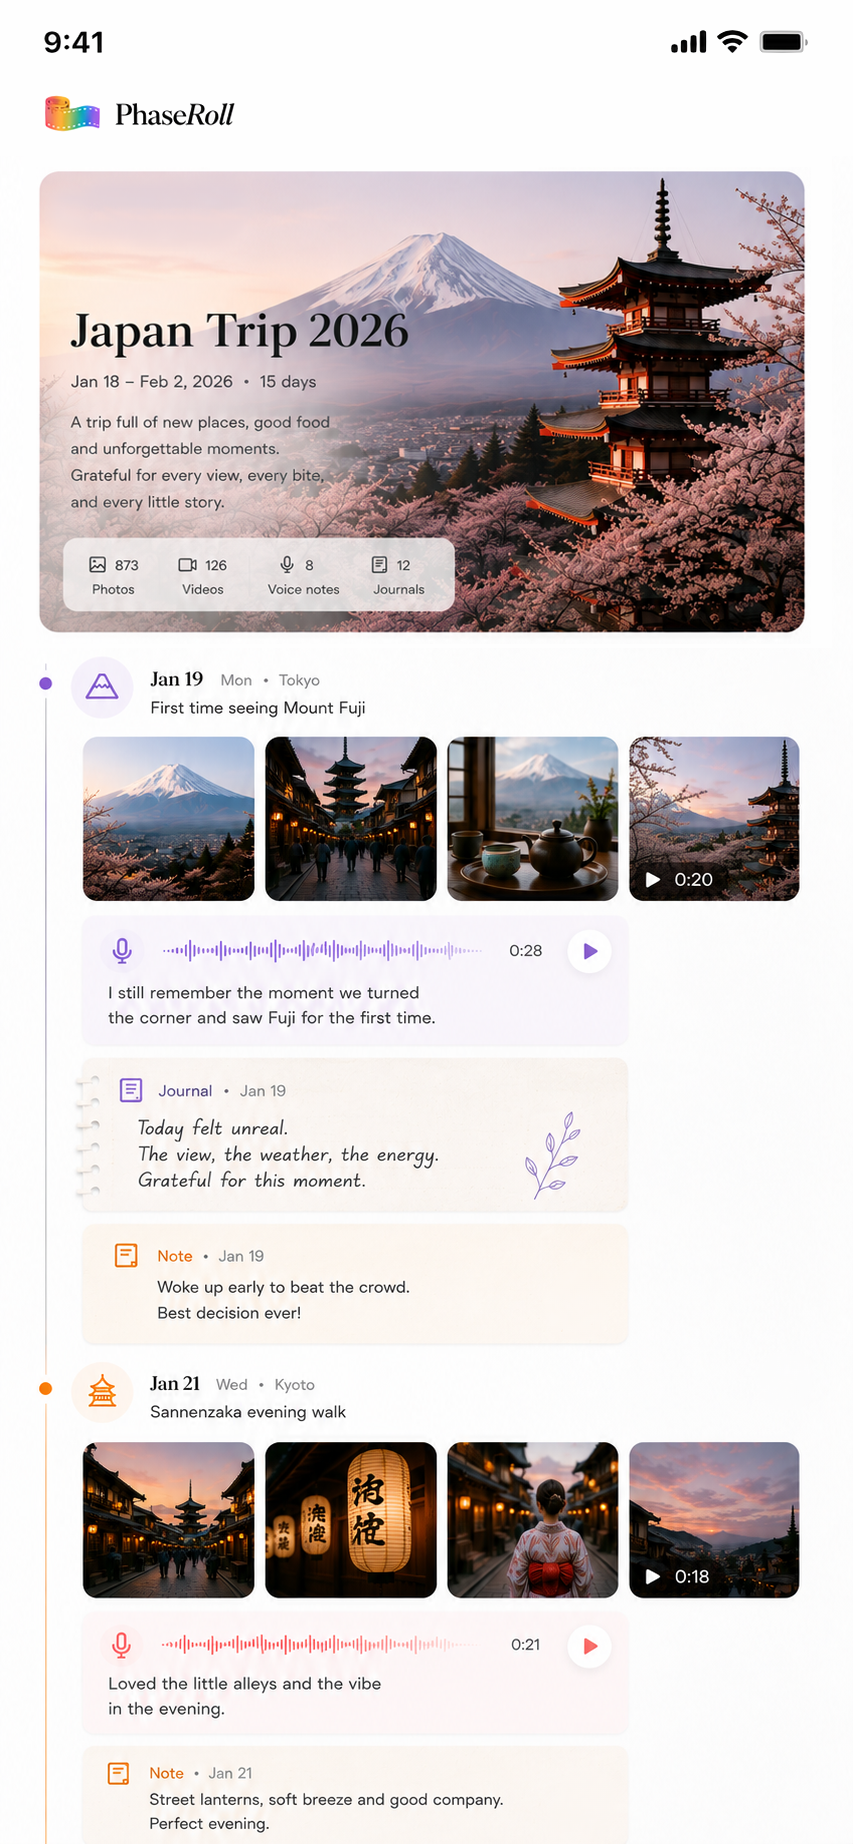
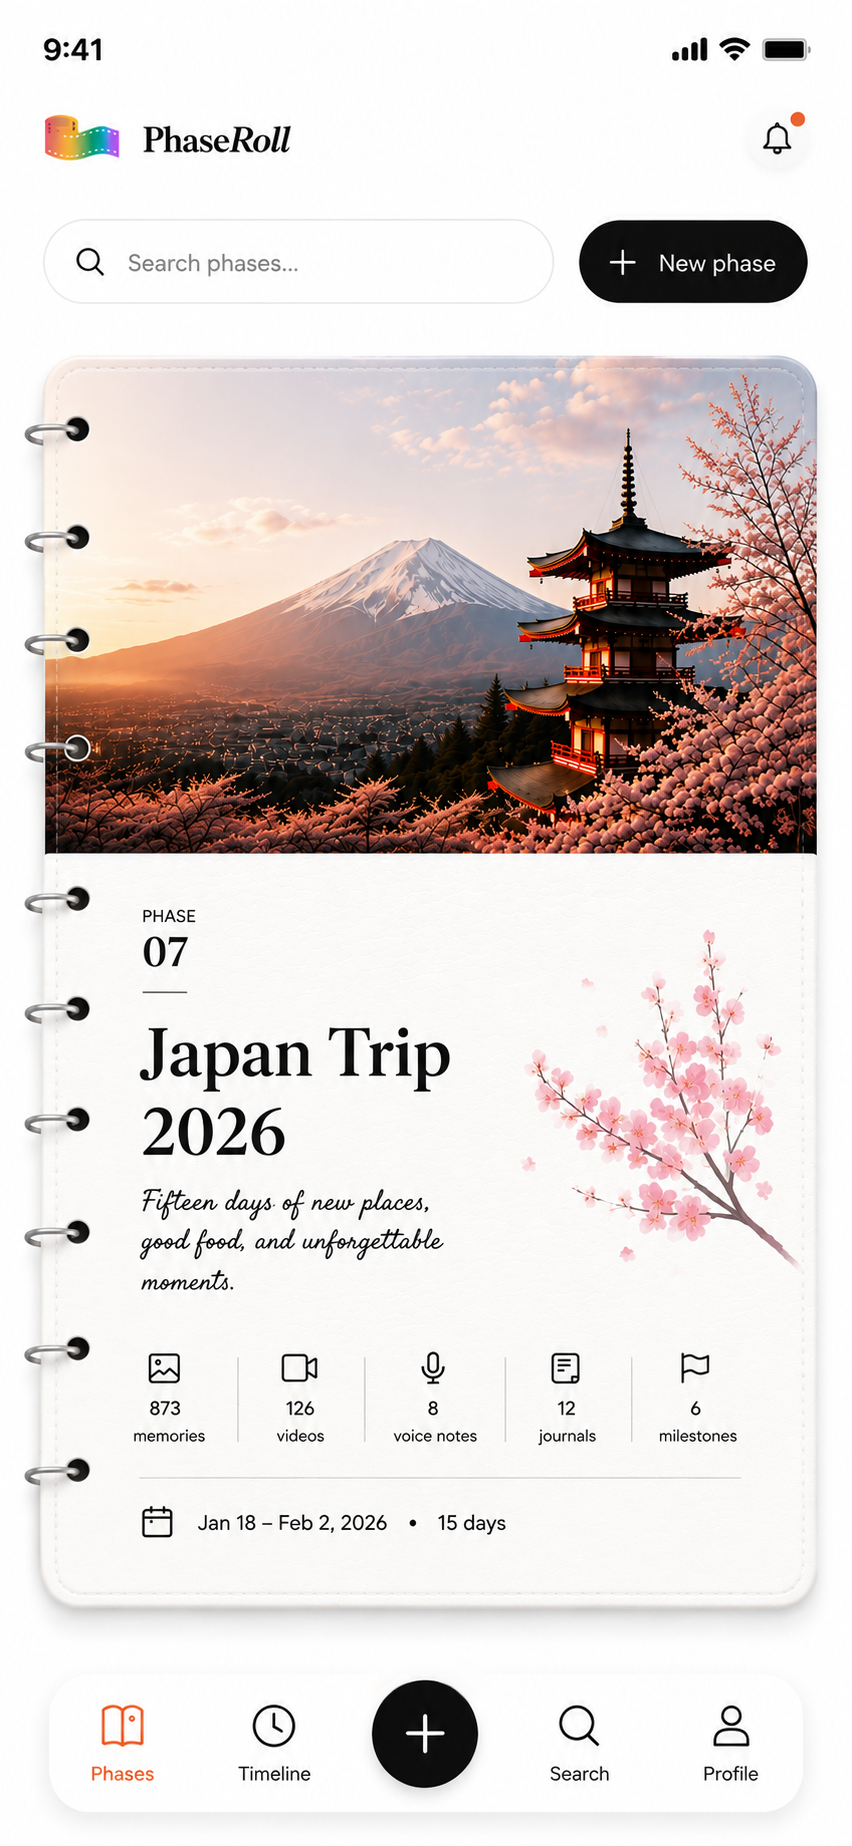
changed hero mockup UI

diff --git a/app/sitemap.ts b/app/sitemap.ts
@@ -9,9 +9,9 @@ export default function sitemap(): MetadataRoute.Sitemap {
       changeFrequency: "weekly",
       priority: 1,
       images: [
-        `${SITE_URL}/phase_view.png`,
+        `${SITE_URL}/japan_trip_phase_view.png`,
         `${SITE_URL}/film_signature.png`,
-        `${SITE_URL}/roll_call.png`,
+        `${SITE_URL}/timeline.png`,
       ],
     },
   ];

diff --git a/app/page.tsx b/app/page.tsx
@@ -25,7 +25,7 @@ const MOCKUPS = [
     slot: "Slot 02 — camera styles",
   },
   {
-    src: "/phase_view.png",
+    src: "/timeline.png",
     alt: "Day view showing multiple Phases with photos, videos, and personal notes",
     caption: "03 — Timeline",
     slot: "Slot 03 — timeline",
